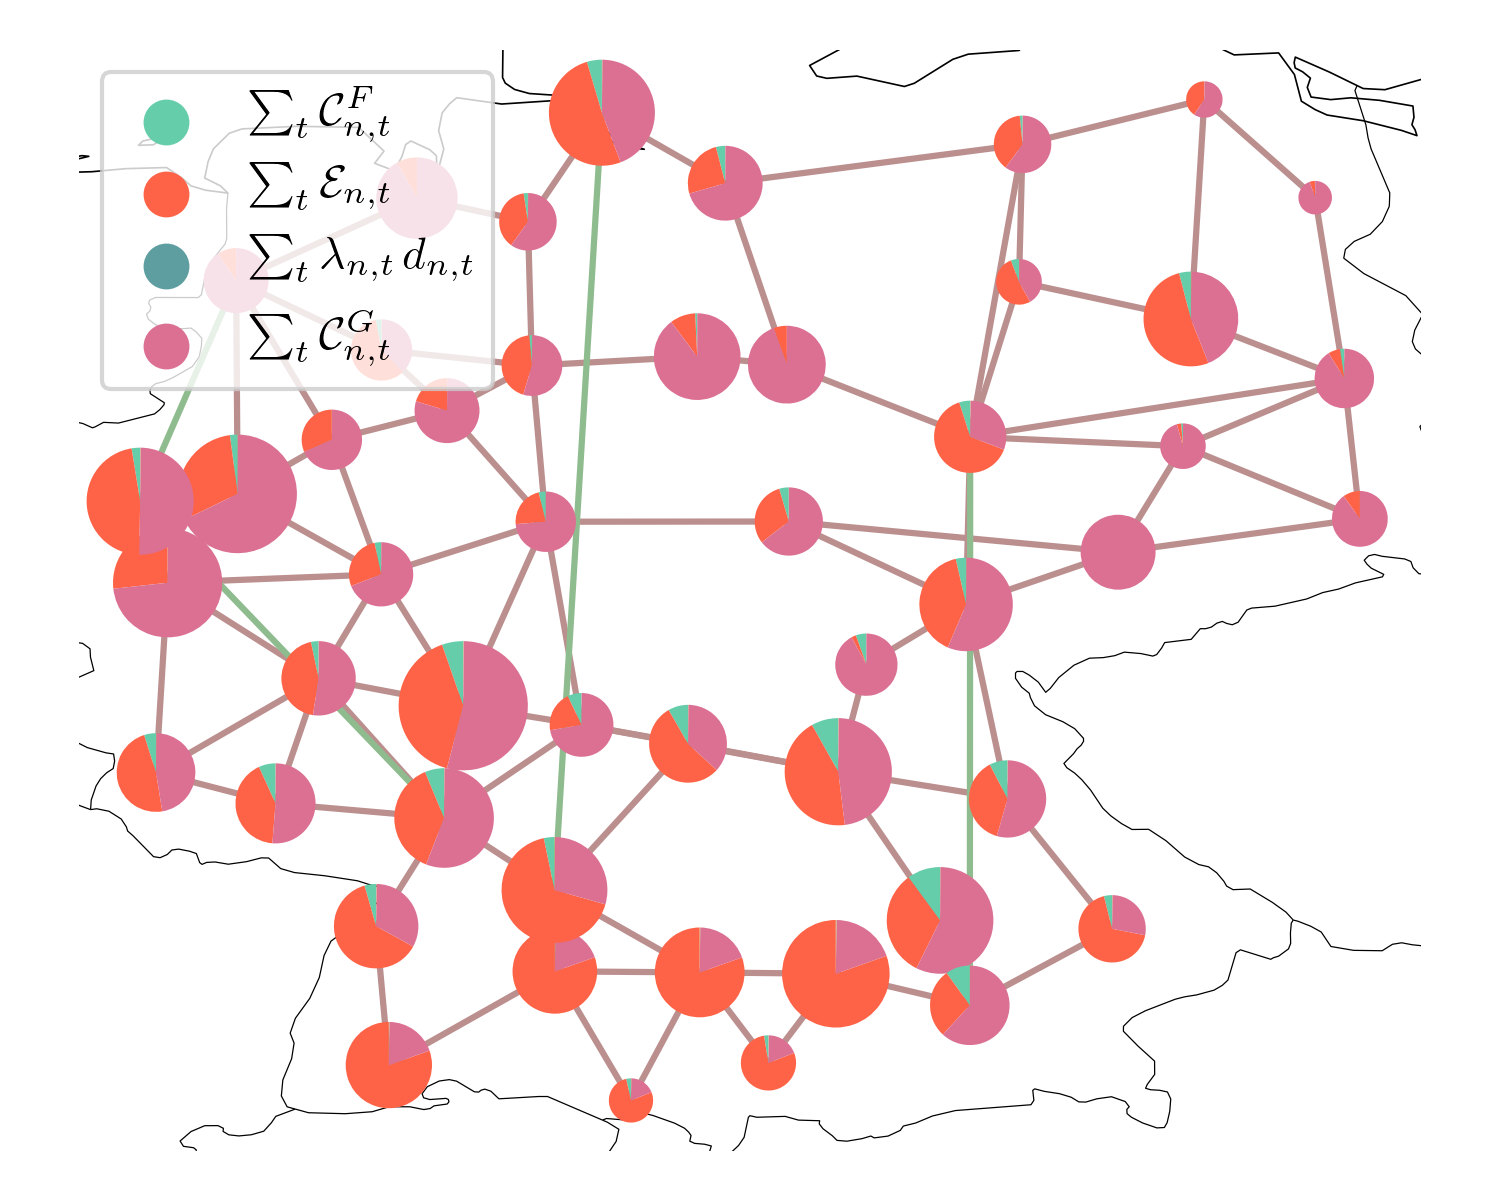
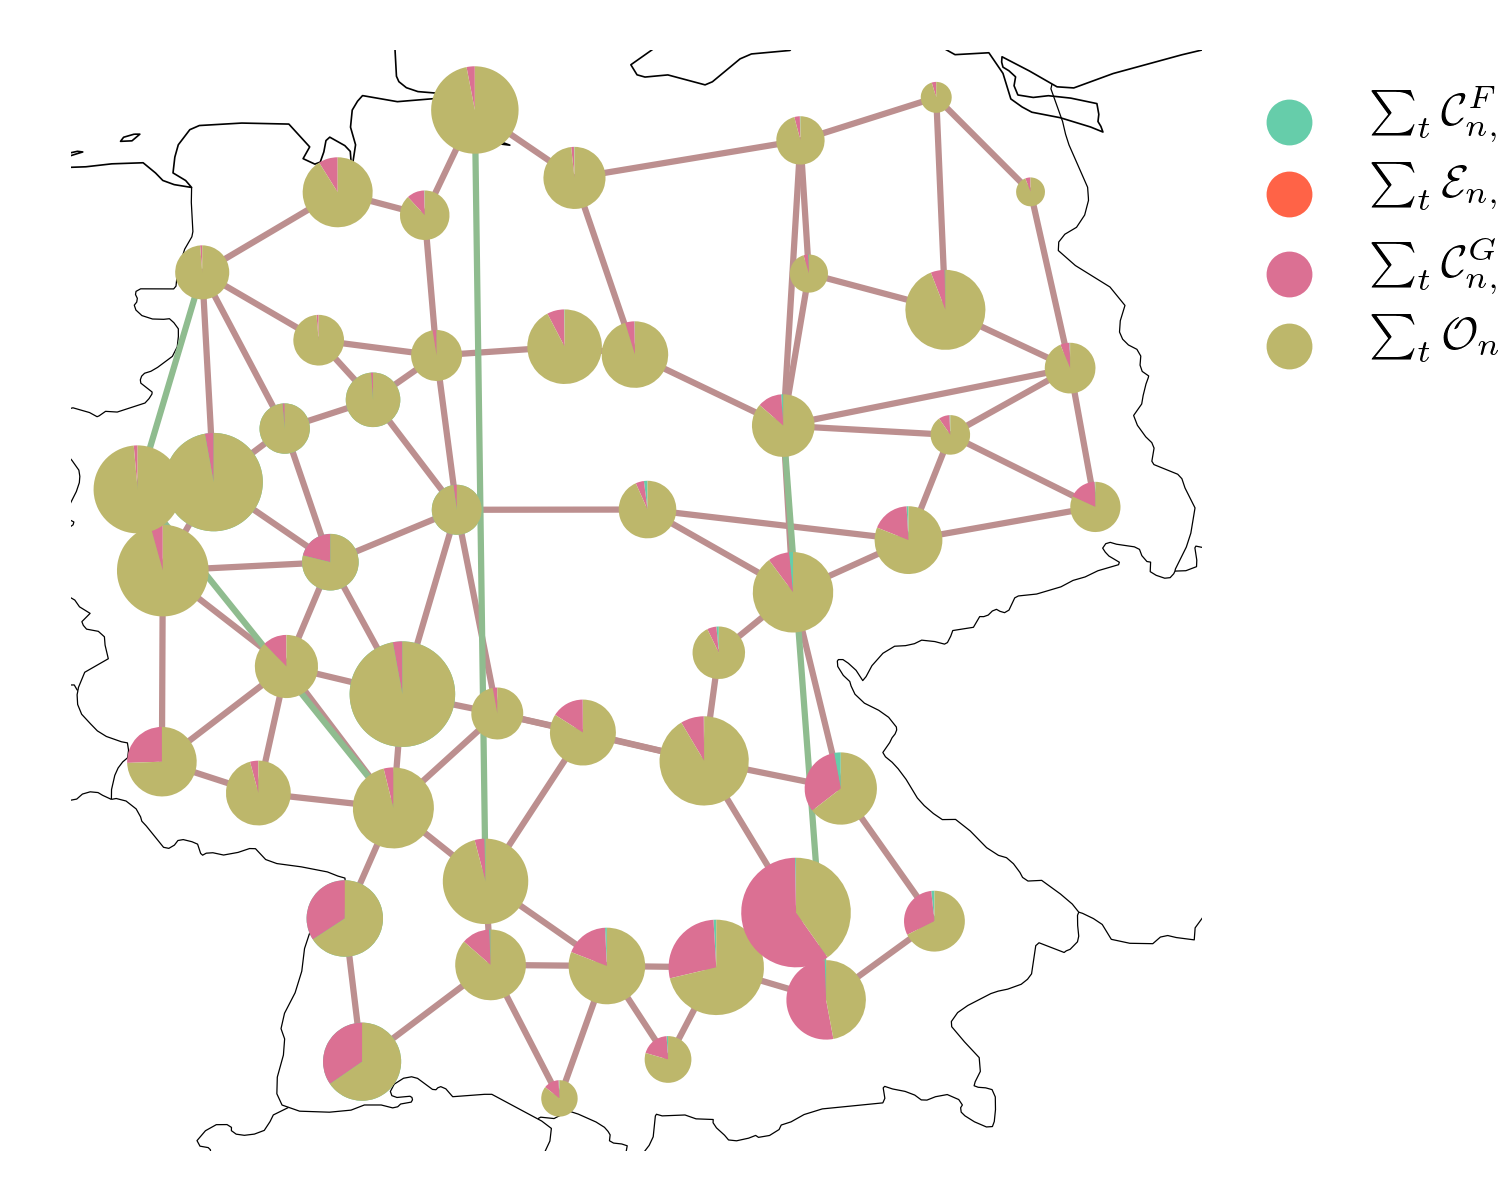
add price map

diff --git a/code/dist_cost_large.py b/code/dist_cost_large.py
@@ -11,11 +11,15 @@ import netallocation as ntl
 from netallocation.cost import nodal_demand_cost, nodal_production_revenue
 import matplotlib.pyplot as plt
 import cartopy.crs as ccrs
-from config import to_symbol, color, to_total_symbol
+from config import to_symbol, color, to_total_symbol, to_explanation
+import geopandas as gpd
 
 plt.rc("text", usetex=True)
+plt.rc('font', family='serif')
+
 
 n = pypsa.Network('../solved_germany_50.nc')
+n.set_snapshots(n.snapshots[:10])
 tag = "_large"
 
 
@@ -55,59 +59,33 @@ fig.tight_layout()
 fig.savefig(f"../figures/network{tag}.png")
 
 
-# %% Allocation plot
-
-
-# fig, axes = plt.subplots(3, 1, figsize=(12, 7), sharex=True)
-
-# for sn, ax in zip(n.snapshots, axes.ravel()):
-#     ca_df = payments.sel(snapshot=sn, drop=True).to_dataframe()
-#     dc_df = dc.sel(snapshot=sn, drop=True).to_dataframe()
-#     d = dict(stacked=True, zorder=3, width=0.3, legend=False, ax=ax)
-
-#     ca_df.plot.bar(position=1.1, color=color[ca_df.columns], **d)
-#     dc_df.plot.bar(position=0, color=color[dc_df.columns], **d)
-
-#     ax.set_xlim(left=-0.5)
-#     ax.ticklabel_format(axis="y", style="sci", scilimits=(5, 2))
-#     ax.set_xlabel("")
-#     ax.set_title(f"$t = %i$" % (sn.hour + 1))
-# #     ax.grid(axis="y", zorder=1, linestyle="dashed")
-
-# handles, labels = ax.get_legend_handles_labels()
-# labels = [to_symbol[l] for l in labels]
-# fig.legend(
-#     handles[:-1],
-#     labels[:-1],
-#     ncol=4,
-#     frameon=False,
-#     loc="lower center",
-#     bbox_to_anchor=(0.3, 1),
-#     fontsize="large",
-#     title="Flow Based (left bars)",
-# )
-# fig.legend(
-#     handles[-1:],
-#     labels[-1:],
-#     ncol=1,
-#     frameon=False,
-#     loc="lower center",
-#     bbox_to_anchor=(0.7, 1),
-#     fontsize="large",
-#     title="LMP Based (right bars)",
-# )
-# fig.tight_layout()
-# fig.savefig(f"../figures/compare_allocation{tag}.png", bbox_inches="tight")
-
 #%% LMP
-
 demand = ntl.power_demand(n).rename(bus="payer")
-fig, ax = plt.subplots(subplot_kw={"projection": ccrs.PlateCarree()}, figsize=(5, 4))
 bus_sizes = (payments).sum("snapshot").to_dataframe().stack().sort_index()
+prices = (payments/demand).mean('snapshot').to_dataframe()
+regions = gpd.read_file('../regions_onshore_elec_s_50.geojson')
+priceregions = regions.set_index('name').join(prices)
+
+
+for col, name in to_explanation.items():
+
+    fig, ax = plt.subplots(subplot_kw={"projection": ccrs.EqualEarth()},
+                           figsize=(5, 4))
+    ax.outline_patch.set_visible(False)
+    priceregions.plot(column=col, legend=True, ax=ax,
+                      transform=ccrs.PlateCarree(),
+                      legend_kwds={'label': f'Average LMP for {name} [€/MWh]'})
+    fig.tight_layout()
+    fig.savefig(f'../figures/{col}_average.png')
+
+# %%
+
+fig, ax = plt.subplots(subplot_kw={"projection": ccrs.EqualEarth()},
+                       figsize=(5, 4))
 n.plot(ax=ax, bus_sizes=bus_sizes / bus_sizes.sum() * 3, bus_colors=color)
-handles, labels = ntl.plot.handles_labels_for(color[:-1])
+handles, labels = ntl.plot.handles_labels_for(color[bus_sizes.index.unique(1)])
 labels = ["$\sum_t" + to_symbol[l][1:] for l in labels]
-ax.legend(handles, labels, loc="upper left")
+ax.legend(handles, labels, loc="upper left", bbox_to_anchor=(1, 1), ncol=1, frameon=False)
 fig.canvas.draw()
 fig.tight_layout()
 fig.savefig(f"../figures/nodal_payments{tag}.png")

diff --git a/code/leftover.py b/code/leftover.py
@@ -60,3 +60,48 @@ c = 'Generator'
  + reindex_by_bus_carrier(n.pnl(c).mu_lower.loc[t], c, n) \
  + locational_market_price(n, t)
  )
+
+#%% comparison plot bars
+
+fig, axes = plt.subplots(3, 1, figsize=(12, 7), sharex=True)
+
+for sn, ax in zip(n.snapshots, axes.ravel()):
+    ca_df = payments.sel(snapshot=sn, drop=True).to_dataframe()
+    dc_df = dc.sel(snapshot=sn, drop=True).to_dataframe()
+    d = dict(stacked=True, zorder=3, width=0.3, legend=False, ax=ax)
+
+    ca_df.plot.bar(position=1.1, color=color[ca_df.columns], **d)
+    dc_df.plot.bar(position=0, color=color[dc_df.columns], **d)
+
+    ax.set_xlim(left=-0.5)
+    ax.ticklabel_format(axis="y", style="sci", scilimits=(5, 2))
+    ax.set_xlabel("")
+    ax.set_title(f"$t = %i$" % (sn.hour + 1))
+#     ax.grid(axis="y", zorder=1, linestyle="dashed")
+
+handles, labels = ax.get_legend_handles_labels()
+labels = [to_symbol[l] for l in labels]
+fig.legend(
+    handles[:-1],
+    labels[:-1],
+    ncol=4,
+    frameon=False,
+    loc="lower center",
+    bbox_to_anchor=(0.3, 1),
+    fontsize="large",
+    title="Flow Based (left bars)",
+)
+fig.legend(
+    handles[-1:],
+    labels[-1:],
+    ncol=1,
+    frameon=False,
+    loc="lower center",
+    bbox_to_anchor=(0.7, 1),
+    fontsize="large",
+    title="LMP Based (right bars)",
+)
+fig.tight_layout()
+fig.savefig(f"../figures/compare_allocation{tag}.png", bbox_inches="tight")
+
+

diff --git a/code/config.py b/code/config.py
@@ -27,6 +27,11 @@ to_total_symbol = dict(one_port_investment_cost = '$\mathcal{C}^{G}$',
                       co2_cost = '$\mathcal{E}$',
                       nodal_demand_cost = '$\mathcal{TC}$')
 
+to_explanation = {'one_port_operational_cost': 'OPEX',
+                  'co2_cost': 'Emission Cost',
+                  'one_port_investment_cost': 'Production CAPEX',
+                  'branch_investment_cost': 'Transmission CAPEX'}
+
 color = pd.Series({'one_port_operational_cost': 'darkkhaki',
                    'co2_cost': 'tomato',
                    'one_port_investment_cost': 'palevioletred',
